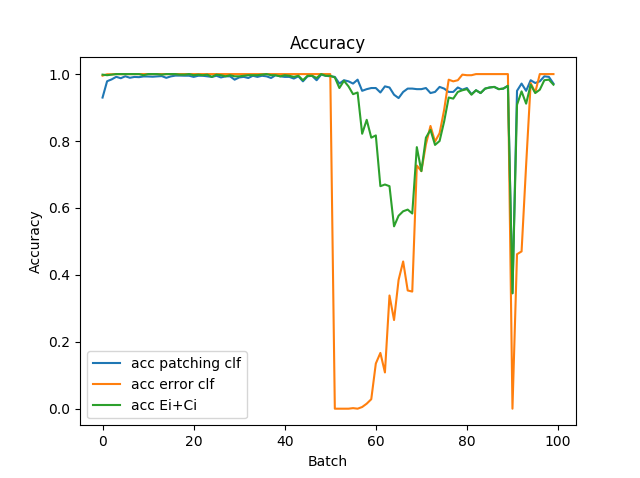
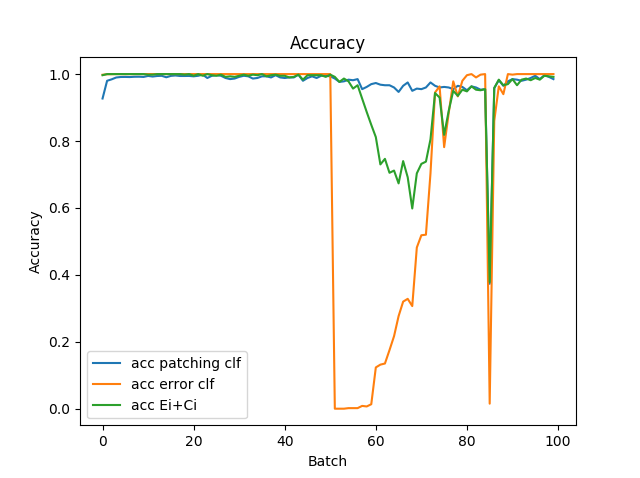
bugfix

Changed region(s): [[0.1562, 0.1464, 0.875, 0.8494], [0.5312, 0.8494, 0.5625, 0.8787]]

diff --git a/mnist/mnist_drift_classifier_2.py b/mnist/mnist_drift_classifier_2.py
@@ -145,8 +145,8 @@ for i in range(nbBaseBatches, nbBatches):
     elif drift_type == "remap":
         X, y, y_E = remap(X, y, i < nbBatches/2)
     elif (drift_type == "rotate"):
-        if i > 50 and i < 90:
-            angle += 6
+        if i > 50 and i < 85 and angle <= 180:
+            angle += 5
         else:
             angle = 0
         X, y, y_E = rot(X, y, angle)
